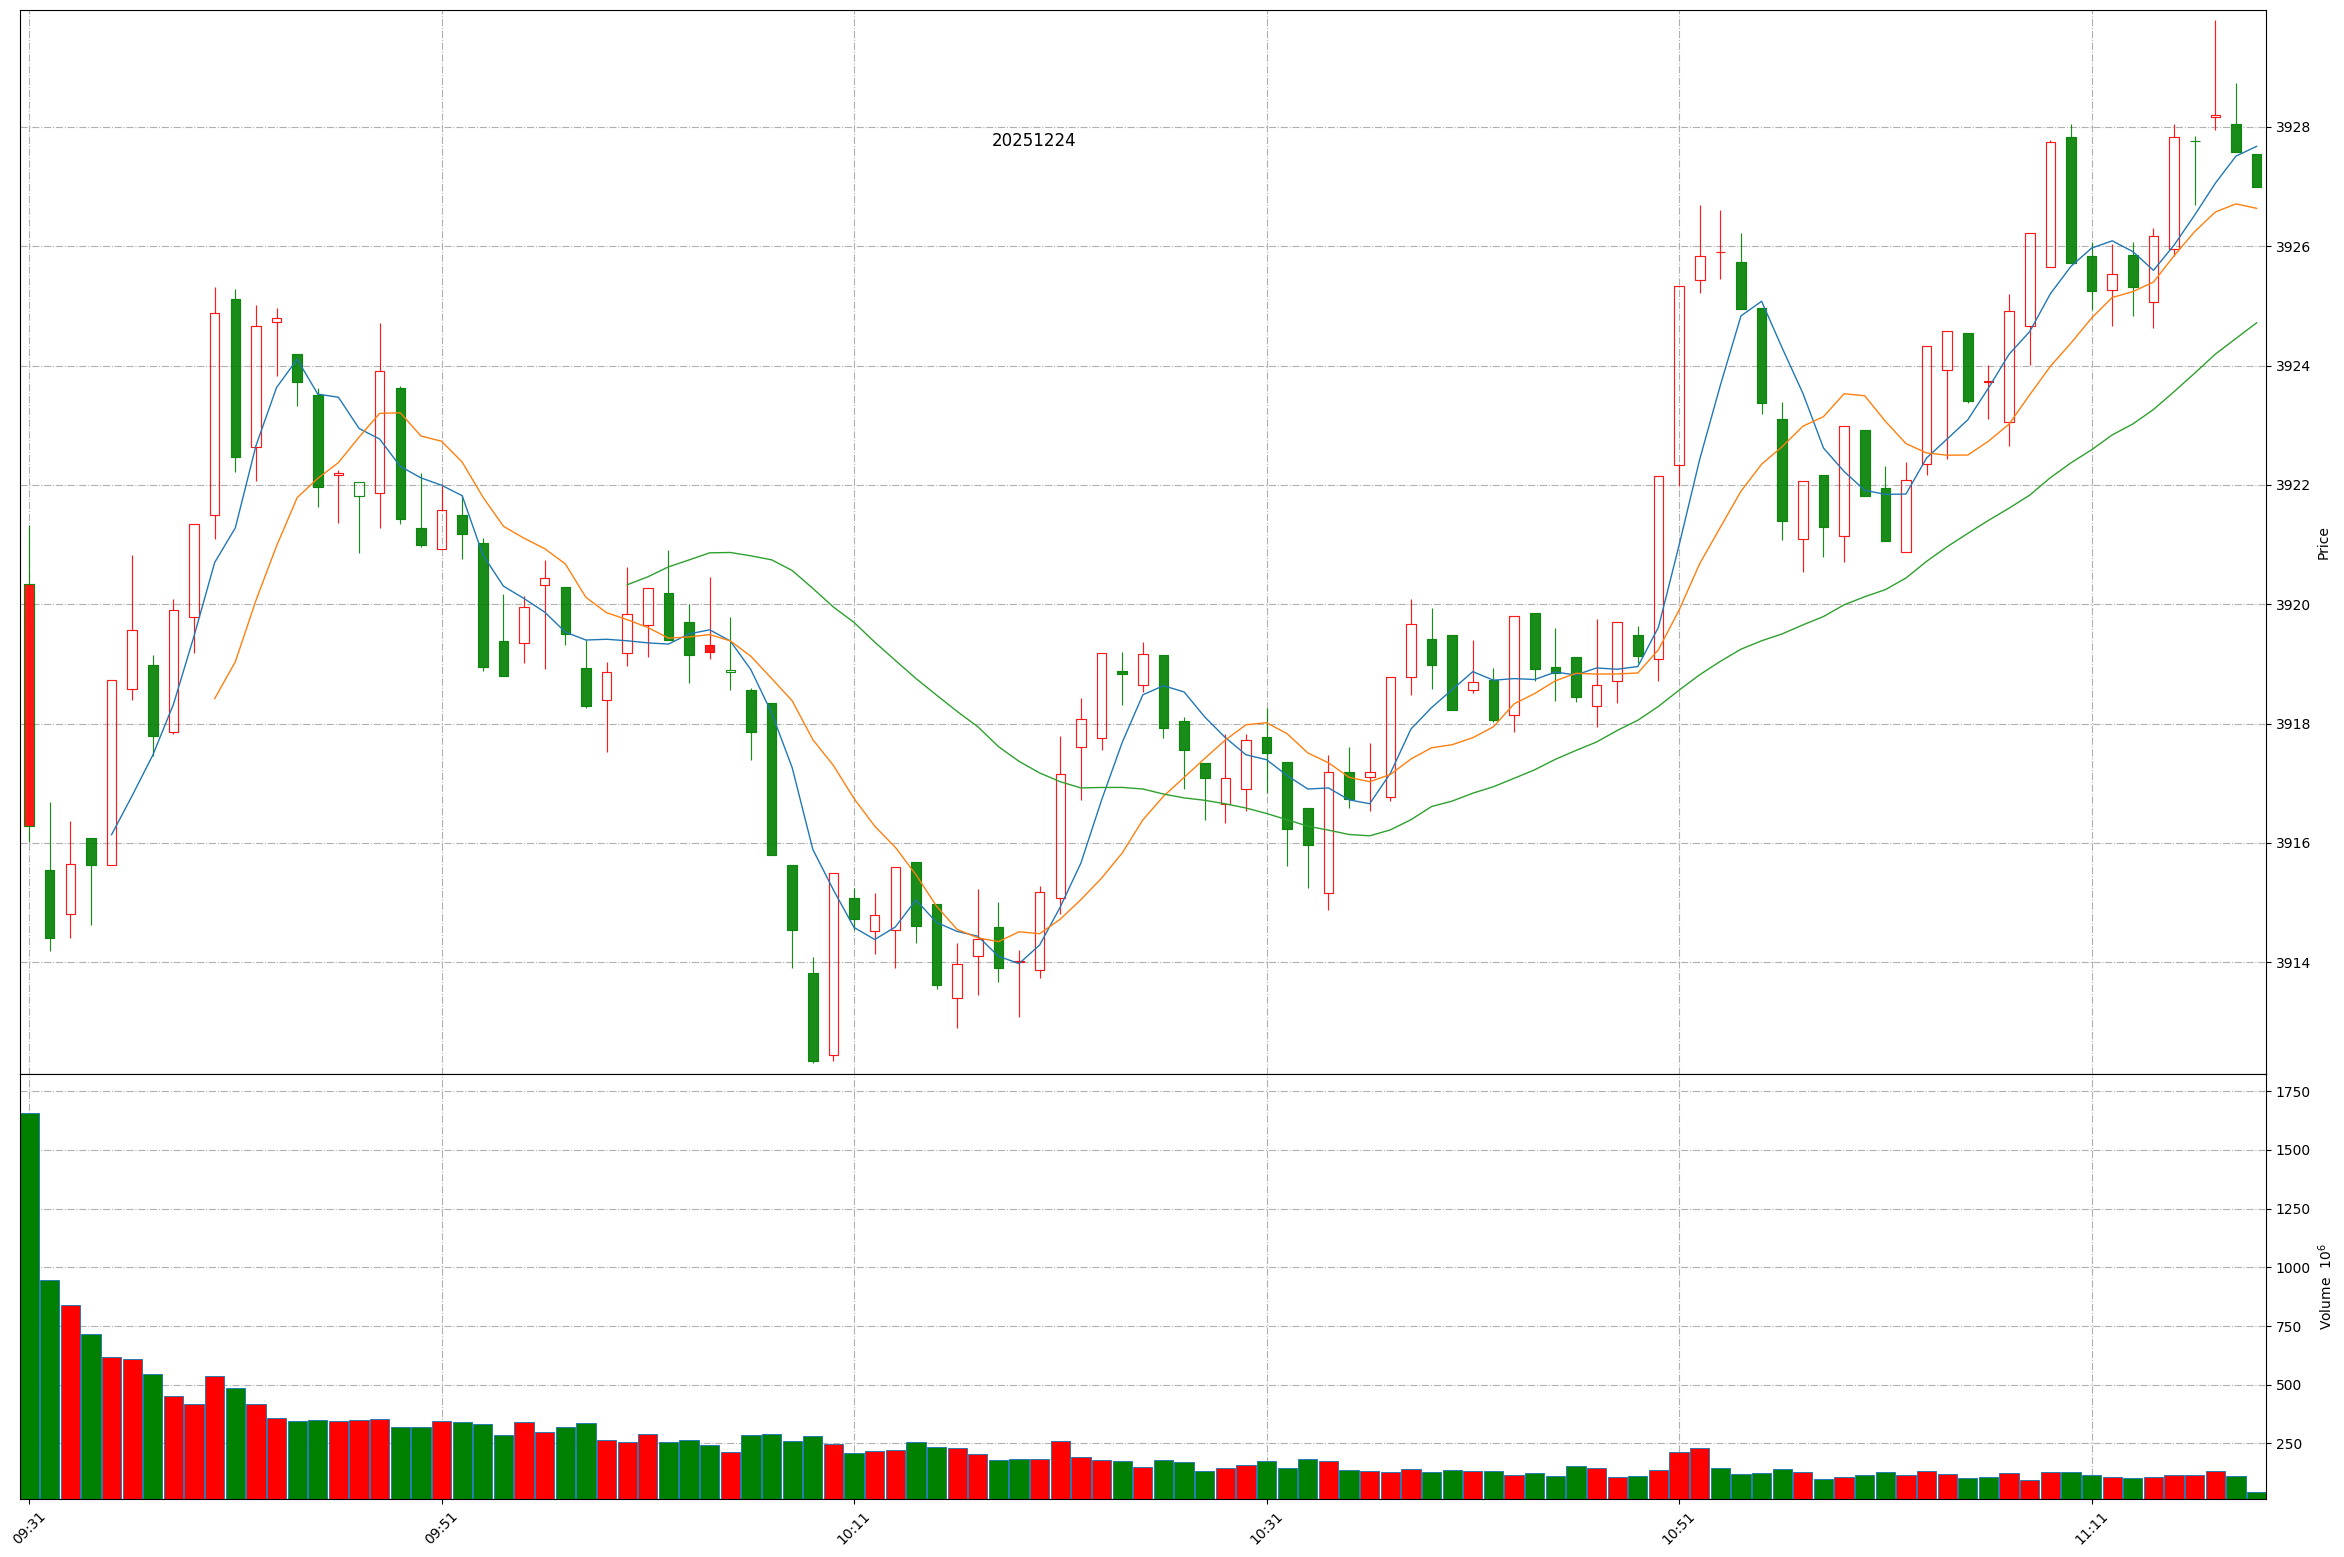
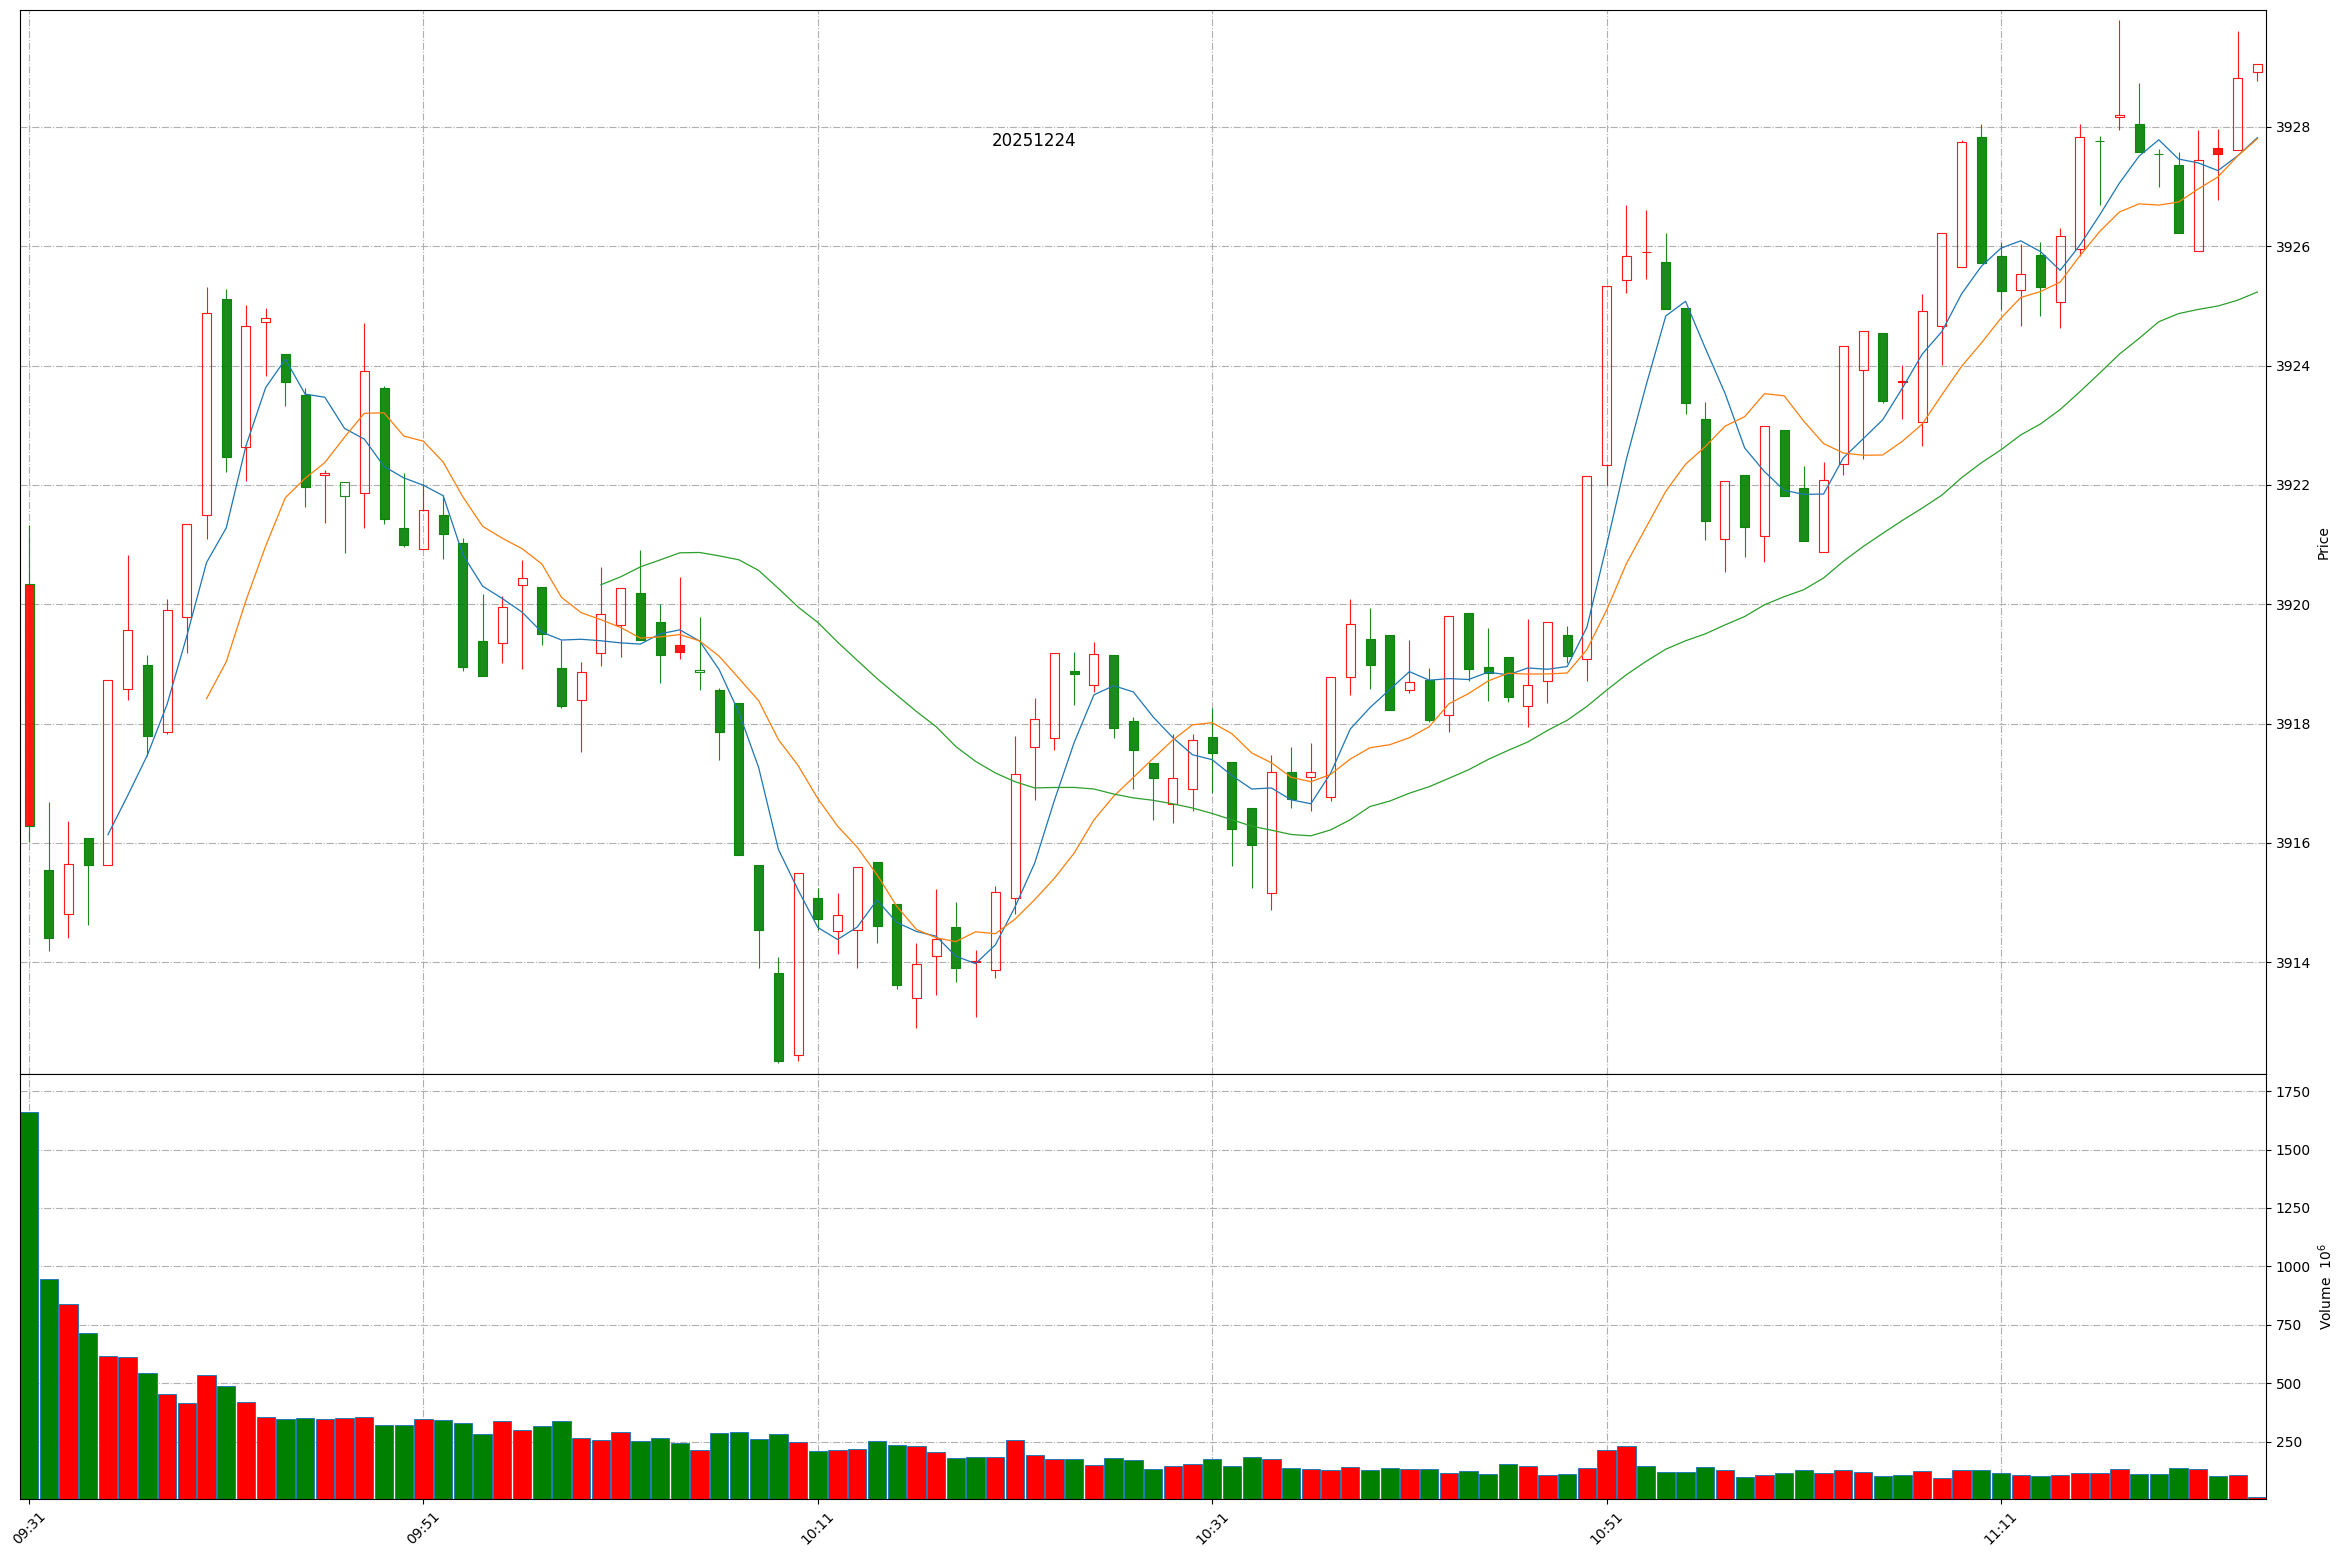
Github action update at 2025-12-24 11:23:35.

diff --git a/README.md b/README.md
@@ -1,11 +1,11 @@
 
 # Daily-A-share-market-quotes 每日 A 股指数（5min 更新）- 20251224
 
-### 上证指数 20251224 11:18
+### 上证指数 20251224 11:23
 ![](./fig/2025/12/20251224-sh000001.png)
 
-### 深证成指 20251224 11:18
+### 深证成指 20251224 11:23
 ![](./fig/2025/12/20251224-sz399001.png)
 
-### 北证50 20251224 11:18
+### 北证50 20251224 11:23
 ![](./fig/2025/12/20251224-bj899050.png)
